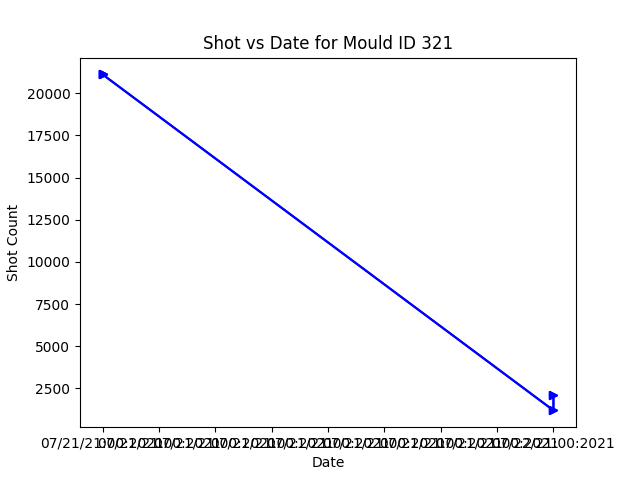
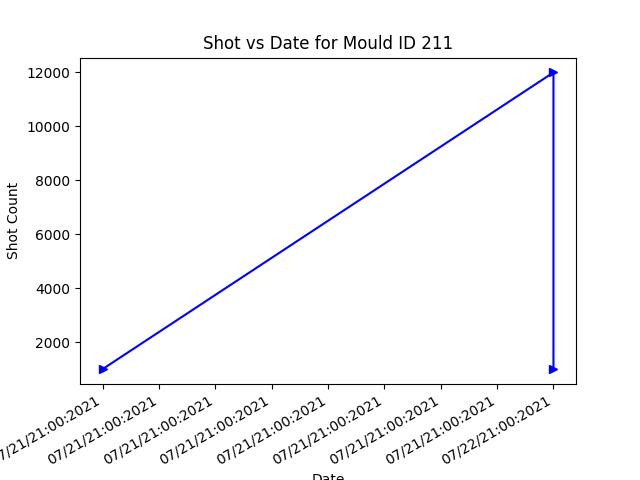
mould graph bug fixed

diff --git a/godrej_projects/mold_management/mould/views.py b/godrej_projects/mold_management/mould/views.py
@@ -71,31 +71,8 @@ def mould_view(request, mould_id):
     context['comments'] = comments 
     mould_data =  Mould.objects.get(mould_id = mould_id)
     context['data'] = mould_data 
-    mould_status_data = MouldStatus.objects.filter(mould_id = mould_data).order_by('status_update')
     
-    increment_date = []
-    increment_count = []
-
-    for mould in mould_status_data: 
-        increment_date.append(mould.status_update.date())
-        increment_count.append(mould.count_increment)
-    print(increment_count)
-    print(increment_date)
-    plt.title(f'Shot vs Date for Mould ID {mould_id}')
-    plt.xlabel('Date')
-    plt.ylabel('Shot Count')
-    # plt.show()
-    # plt.plot(increment_date, increment_count,marker='>', color='blue')
-    # beautify the x-labels
-    # plt.gcf().autofmt_xdate()
-    myFmt = mdates.DateFormatter('%D:%M:%Y')
-    plt.gca().xaxis.set_major_formatter(myFmt)
-    # plt.savefig('mould/static/images/mould_daily_count.png')
-    plt.show()
-    print(increment_count)
-    print(increment_date)    
-
-
+    drawGraphMould_vs_shots(mould_data)
     return render(request, 'mould_id.html', context)
 
 
@@ -155,3 +132,30 @@ def mould_data_update(request, mould_id):
     else: 
         return render(request, 'mould_data_update.html', context)
 
+
+
+# -----------------------------------------------
+# Graph Drawer. 
+
+def drawGraphMould_vs_shots(mould_id): 
+    mould_status_data = MouldStatus.objects.filter(mould_id = mould_id).order_by('status_update')
+    
+    increment_date = []
+    increment_count = []
+
+    for mould in mould_status_data: 
+        increment_date.append(mould.status_update.date())
+        increment_count.append(mould.count_increment)
+    print(increment_count)
+    print(increment_date)
+    plt.title(f'Shot vs Date for Mould ID {mould_id}')
+    plt.xlabel('Date')
+    plt.ylabel('Shot Count')
+    # plt.show()
+    plt.plot(increment_date, increment_count,marker='>', color='blue')
+    # beautify the x-labels
+    plt.gcf().autofmt_xdate()
+    myFmt = mdates.DateFormatter('%D:%M:%Y')
+    plt.gca().xaxis.set_major_formatter(myFmt)
+    plt.savefig('mould/static/images/mould_daily_count.png')
+    plt.close()

diff --git a/godrej_projects/mold_management/user_panel/views.py b/godrej_projects/mold_management/user_panel/views.py
@@ -4,6 +4,7 @@ from mould.models import Mould
 import matplotlib.pyplot as plt 
 import random 
 import os 
+import pandas as pd
 
 @login_required 
 def homePage(request): 
@@ -24,6 +25,18 @@ def homePage(request):
             mould_data[i] = mould_data[main_point]
             mould_data[main_point] = temp 
 
+   
+    graph_for_mould_number_vs_no_of_shots()
+    context['mould_data'] = mould_data 
+    print("----------------------")
+    return render(request, 'user_panel/user_dashboard.html', context)
+    
+
+# ------------------------------------------------------------- 
+# Graph Drawer. 
+
+def graph_for_mould_number_vs_no_of_shots(): 
+    mould_data = Mould.objects.all()
     mould_id = []
     mould_shots_count = []
     bar_color = []
@@ -40,10 +53,5 @@ def homePage(request):
     plt.ylabel('Number of Shots')
     print(mould_id)
     print(mould_shots_count)    
-    # plt.savefig('user_panel/static/images/number_of_mould_vs_shots.png')
-    # plt.show()
-    context['mould_data'] = mould_data 
-    print("----------------------")
-    return render(request, 'user_panel/user_dashboard.html', context)
-    
-
+    plt.savefig('user_panel/static/images/number_of_mould_vs_shots.png')
+    plt.close()
